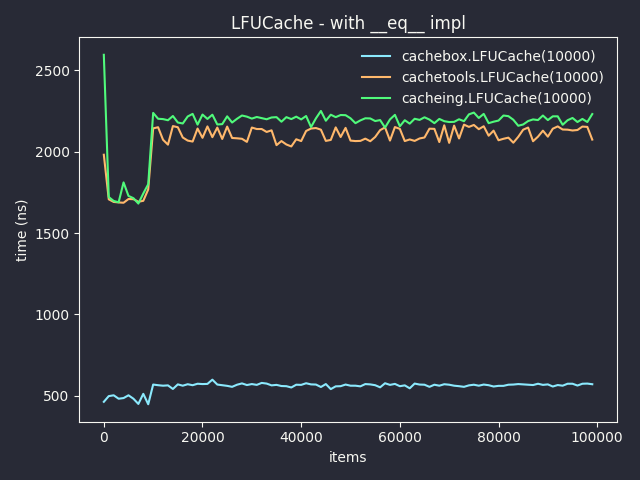
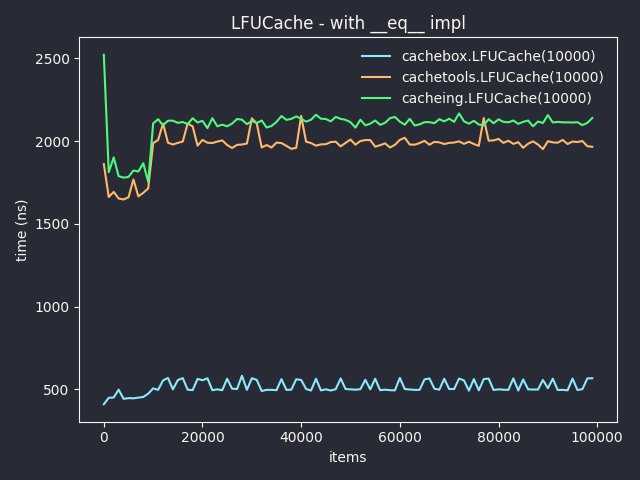
Update benchmarks

diff --git a/main.py b/main.py
@@ -1,5 +1,3 @@
-# from benches.base import Benchmark
-# from benches import funcs
 from measure import GroupBenchmark, Benchmark, PerfCtx
 import random
 import os.path

diff --git a/README.md b/README.md
@@ -9,9 +9,9 @@ If you know other library, tell me to add it to this page.
 
 ## Benchmarks:
 **Versions**:
-- Python: 3.12.6
-- cachebox version: 4.2.3
-- cachetools version: 5.5.0
+- Python: 3.12.7
+- cachebox version: 4.4.2
+- cachetools version: 5.5.1
 - cacheing version: 0.1.1
 - lru-dict: 1.3.0
 
